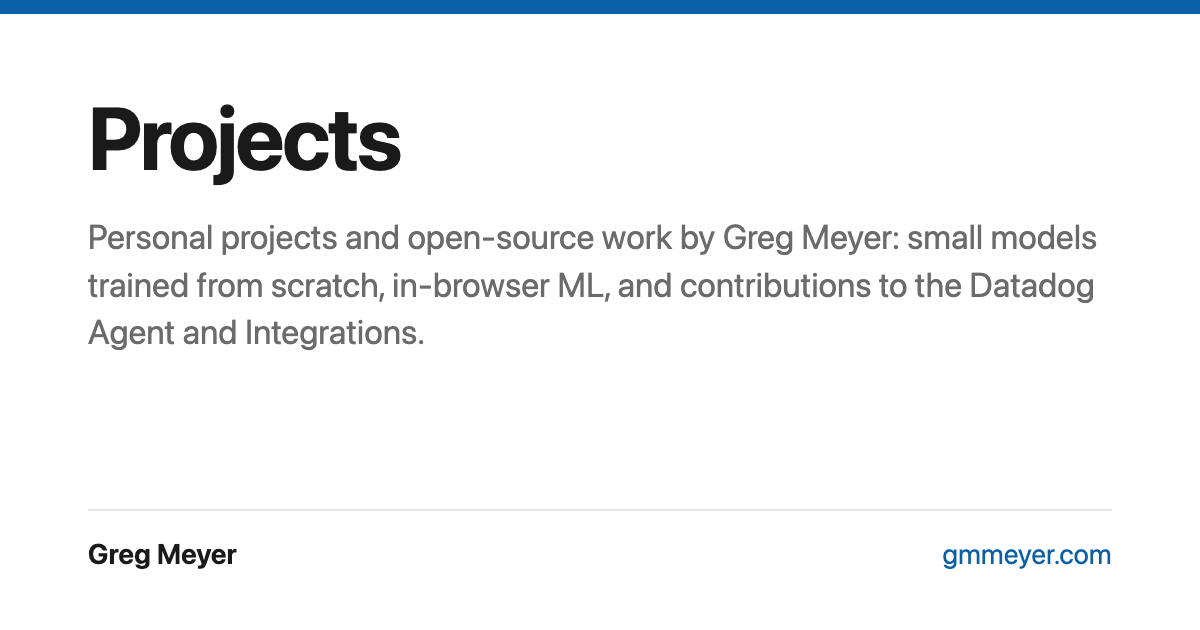
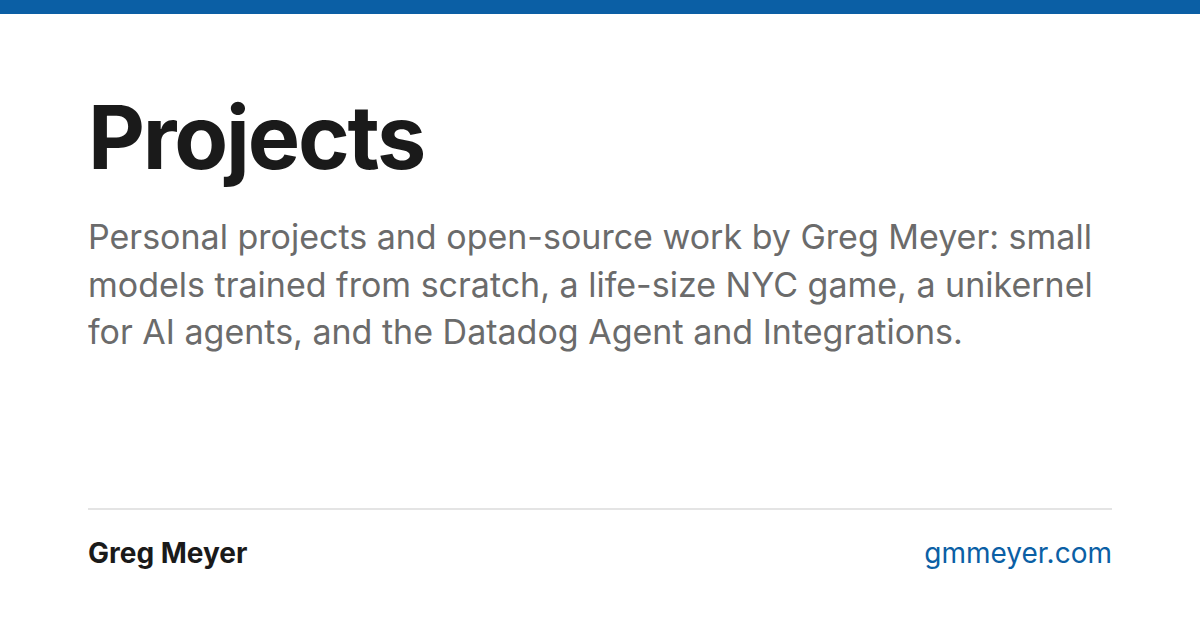
Add grix to the projects page and rewrite the intro
grix goes first under Personal Projects, linking to its repo. The intro now covers
the models, the NYC game and the OS, and the page description and its social card
mention the game and grix too.

Run-on: Niteshift

diff --git a/projects.html b/projects.html
@@ -4,12 +4,12 @@
   <meta charset="utf-8">
   <meta name="viewport" content="width=device-width, initial-scale=1">
   <title>Projects — Greg Meyer</title>
-  <meta name="description" content="Personal projects and open-source work by Greg Meyer: small models trained from scratch, in-browser ML, and contributions to the Datadog Agent and Integrations.">
+  <meta name="description" content="Personal projects and open-source work by Greg Meyer: small models trained from scratch, a life-size NYC game, a unikernel for AI agents, and the Datadog Agent and Integrations.">
   <link rel="canonical" href="https://gmmeyer.com/projects.html">
   <meta property="og:type" content="website">
   <meta property="og:site_name" content="Greg Meyer">
   <meta property="og:title" content="Projects — Greg Meyer">
-  <meta property="og:description" content="Personal projects and open-source work by Greg Meyer: small models trained from scratch, in-browser ML, and contributions to the Datadog Agent and Integrations.">
+  <meta property="og:description" content="Personal projects and open-source work by Greg Meyer: small models trained from scratch, a life-size NYC game, a unikernel for AI agents, and the Datadog Agent and Integrations.">
   <meta property="og:url" content="https://gmmeyer.com/projects.html">
   <meta property="og:image" content="https://gmmeyer.com/img/og/projects.png">
   <meta property="og:image:width" content="1200">
@@ -34,11 +34,28 @@
 <section>
   <h2>Personal Projects</h2>
   <p>
-    Lately I've been training small models from scratch at
-    home — a language model, a world model, a music model, and a diffusion
-    model — and shipping the ones that are fun to play with straight into the
-    browser.
+    Lately I've been playing around with a few mid-sized projects. I've
+    trained a few small models from scratch — a language model, a world
+    model, a music model, a diffusion model and a Python language model — and
+    shipped the ones that are fun to play with straight into the browser.
+    I've built a POC of a game with a life-size version of NYC. I've even
+    built an operating system.
   </p>
+
+  <div class="job">
+    <div class="job-head">
+      <h3><a href="https://github.com/gmmeyer/grix">grix</a> <span class="role">· a unikernel sandbox for AI agents</span></h3>
+      <span class="when">2026</span>
+    </div>
+    <ul>
+      <li>A Rust unikernel that boots a fresh microVM for every run and executes one unmodified Linux binary (Python, Node, Go, busybox) on an agent's behalf, with least privilege by default.</li>
+      <li>The kernel implements the Linux syscall ABI itself and checks every call against the capabilities you grant; anything denied is reported back, so the agent can see exactly what the program needed.</li>
+      <li>Ships its own VMM on Hypervisor.framework and KVM (a run boots, executes and exits in about 0.1 s), plus an MCP server, Python bindings, and snapshots for instant start.</li>
+    </ul>
+    <p class="links">
+      <a href="https://github.com/gmmeyer/grix">Source</a>
+    </p>
+  </div>
 
   <div class="job">
     <div class="job-head">
